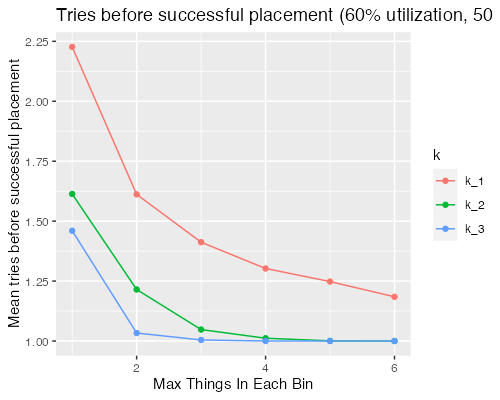
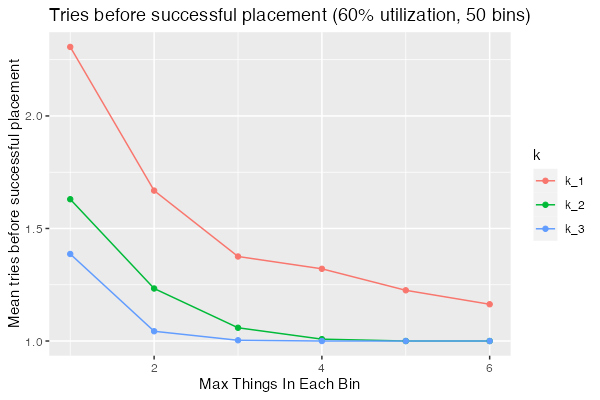
Fix error in analysis (thanks Swarnaprakash Udayakumar), add graph of closed form

diff --git a/_posts/2024-03-25-needles.md b/_posts/2024-03-25-needles.md
@@ -87,7 +87,10 @@ $$P(0) = \frac{ {n U \choose k} }{ {n \choose k} }$$
 
 Which provides at least a reasonably useful closed-form way to approximate the per-attempt successes. Our iterative best-of-*k* algorithm chooses a different *k* with replacement each time, the mean number of attempts before success becomes:
 
-$$\frac{1}{P(0)} = \frac{ {n \choose k} }{ {n U \choose k} }$$
+$$\frac{1}{1 - P(0)} = \frac{1}{1-\frac{ {n U \choose k} }{ {n \choose k} } }$$
+
+Now we can re-create the first graph in tidy closed form:
+
+![](/blog/images/tries_vs_util_closed_blog.png)
 
 It may be possible to simplify that further, but (as I said above) my combinatorics is super rusty. Take this whole analysis with a big grain of salt.
-
